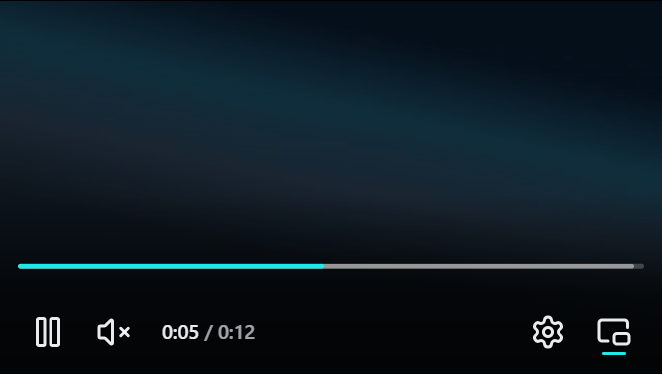
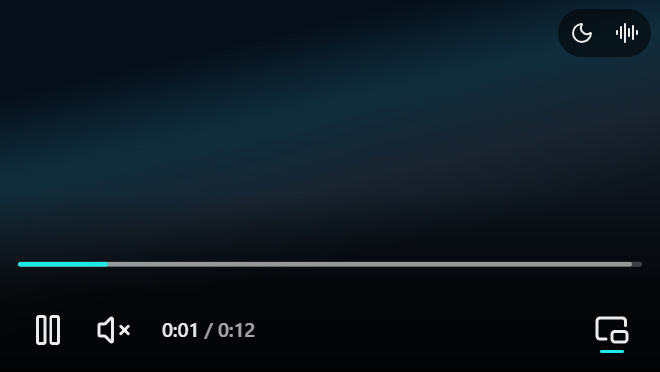
docs: companion report and visual material after the window-controls redesign
docs/reports/companion.md: CI up to #303 (red: the companion WebCodecs case underran on both
attempts, 6 of 9 CI attempts on desktop-chrome so far), the acceptance items after the owner's
redesign (no size setting, controls in the window, budget 4.70 KB pending), real Edge 16 passed
at 50c607e, the flaky axe case, open items. Screenshots retaken on real Edge 157 at 50c607e
(window controls closed and open at the smallest size; the settings-page shots removed).
COMPANION.md notes the 2026-11-16 change.

diff --git a/docs/design/COMPANION.md b/docs/design/COMPANION.md
@@ -20,6 +20,8 @@
 
 ## 3. 需求
 
+> 2026-11-16 负责人改：小窗里不放设置菜单，改为暗化按钮（点开五档滑块）和纯音频条开关；去掉尺寸设置（用户拖窗口边缘）。第 4、5、8、9 条按 ADR-016「小窗里的控件重新设计」执行。
+
 1. **建在 Document PiP 上**：伴随 = 现有的 `docpip` 模式，加一份伴随状态 `presentation.companion`。不新增 `PresentationMode`，SPEC §15 的状态图不变。
 2. **默认关闭**：
    - 宿主用 `presentation.companion: true | CompanionOptions` 开启。
